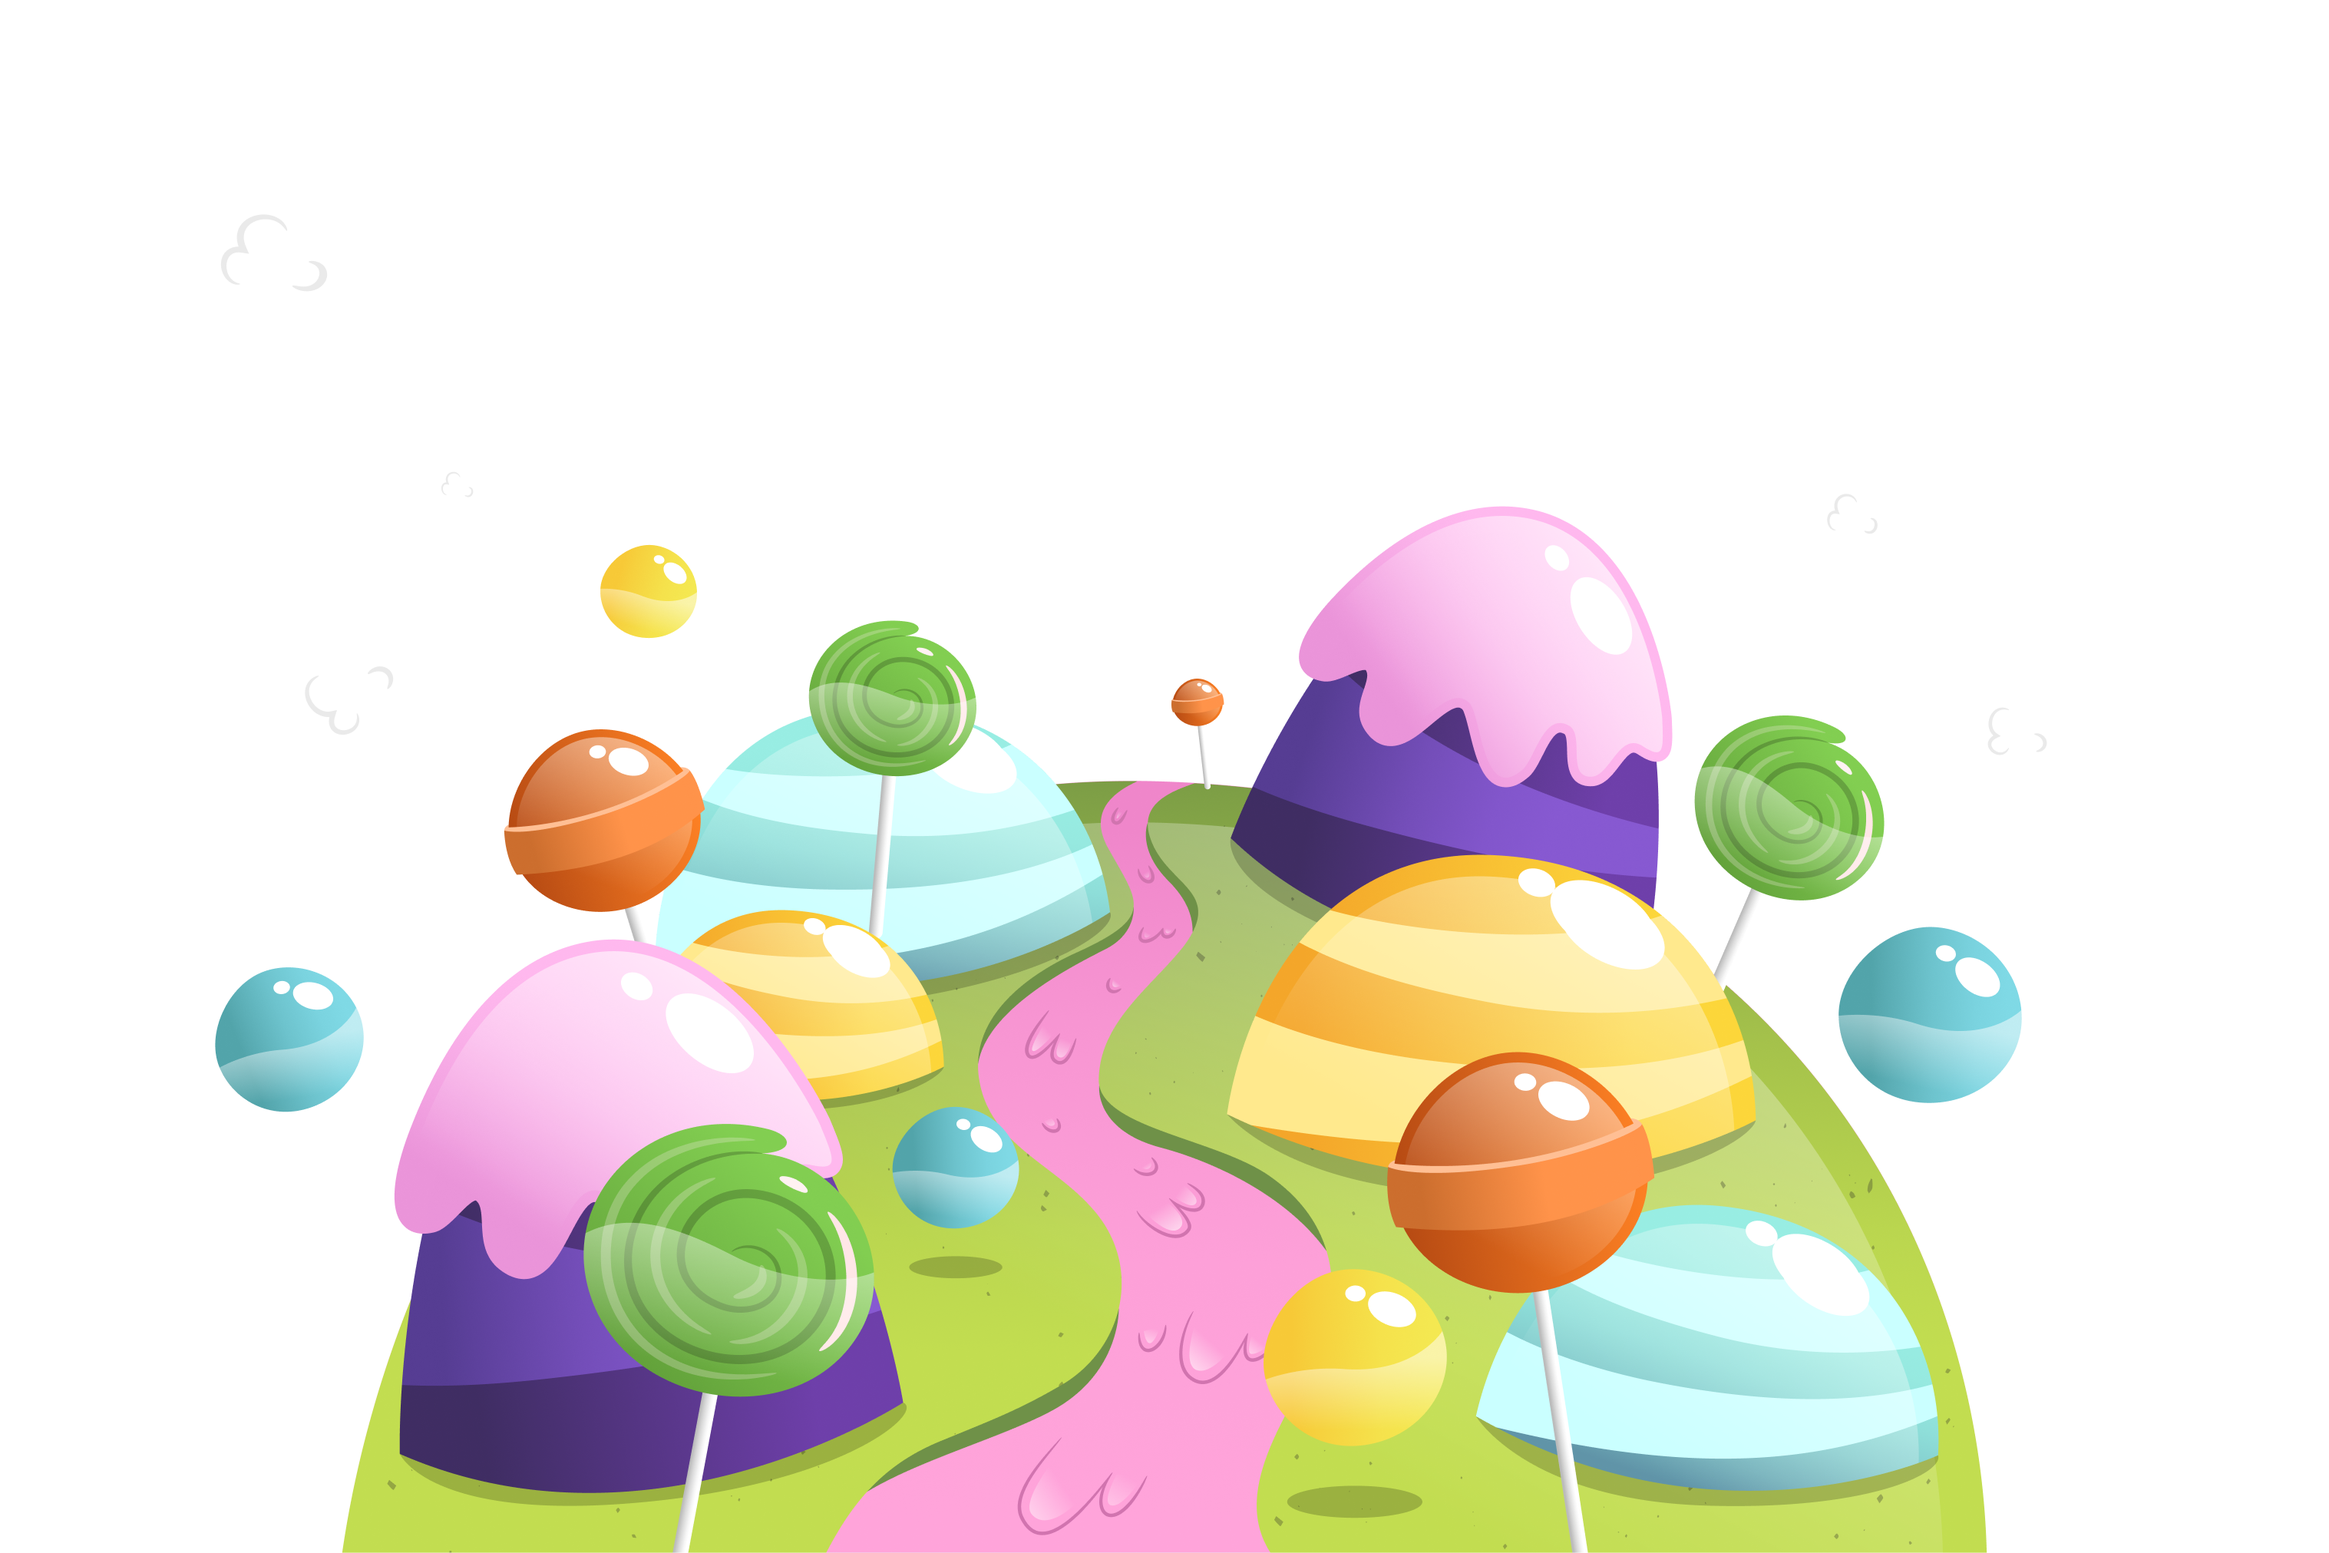
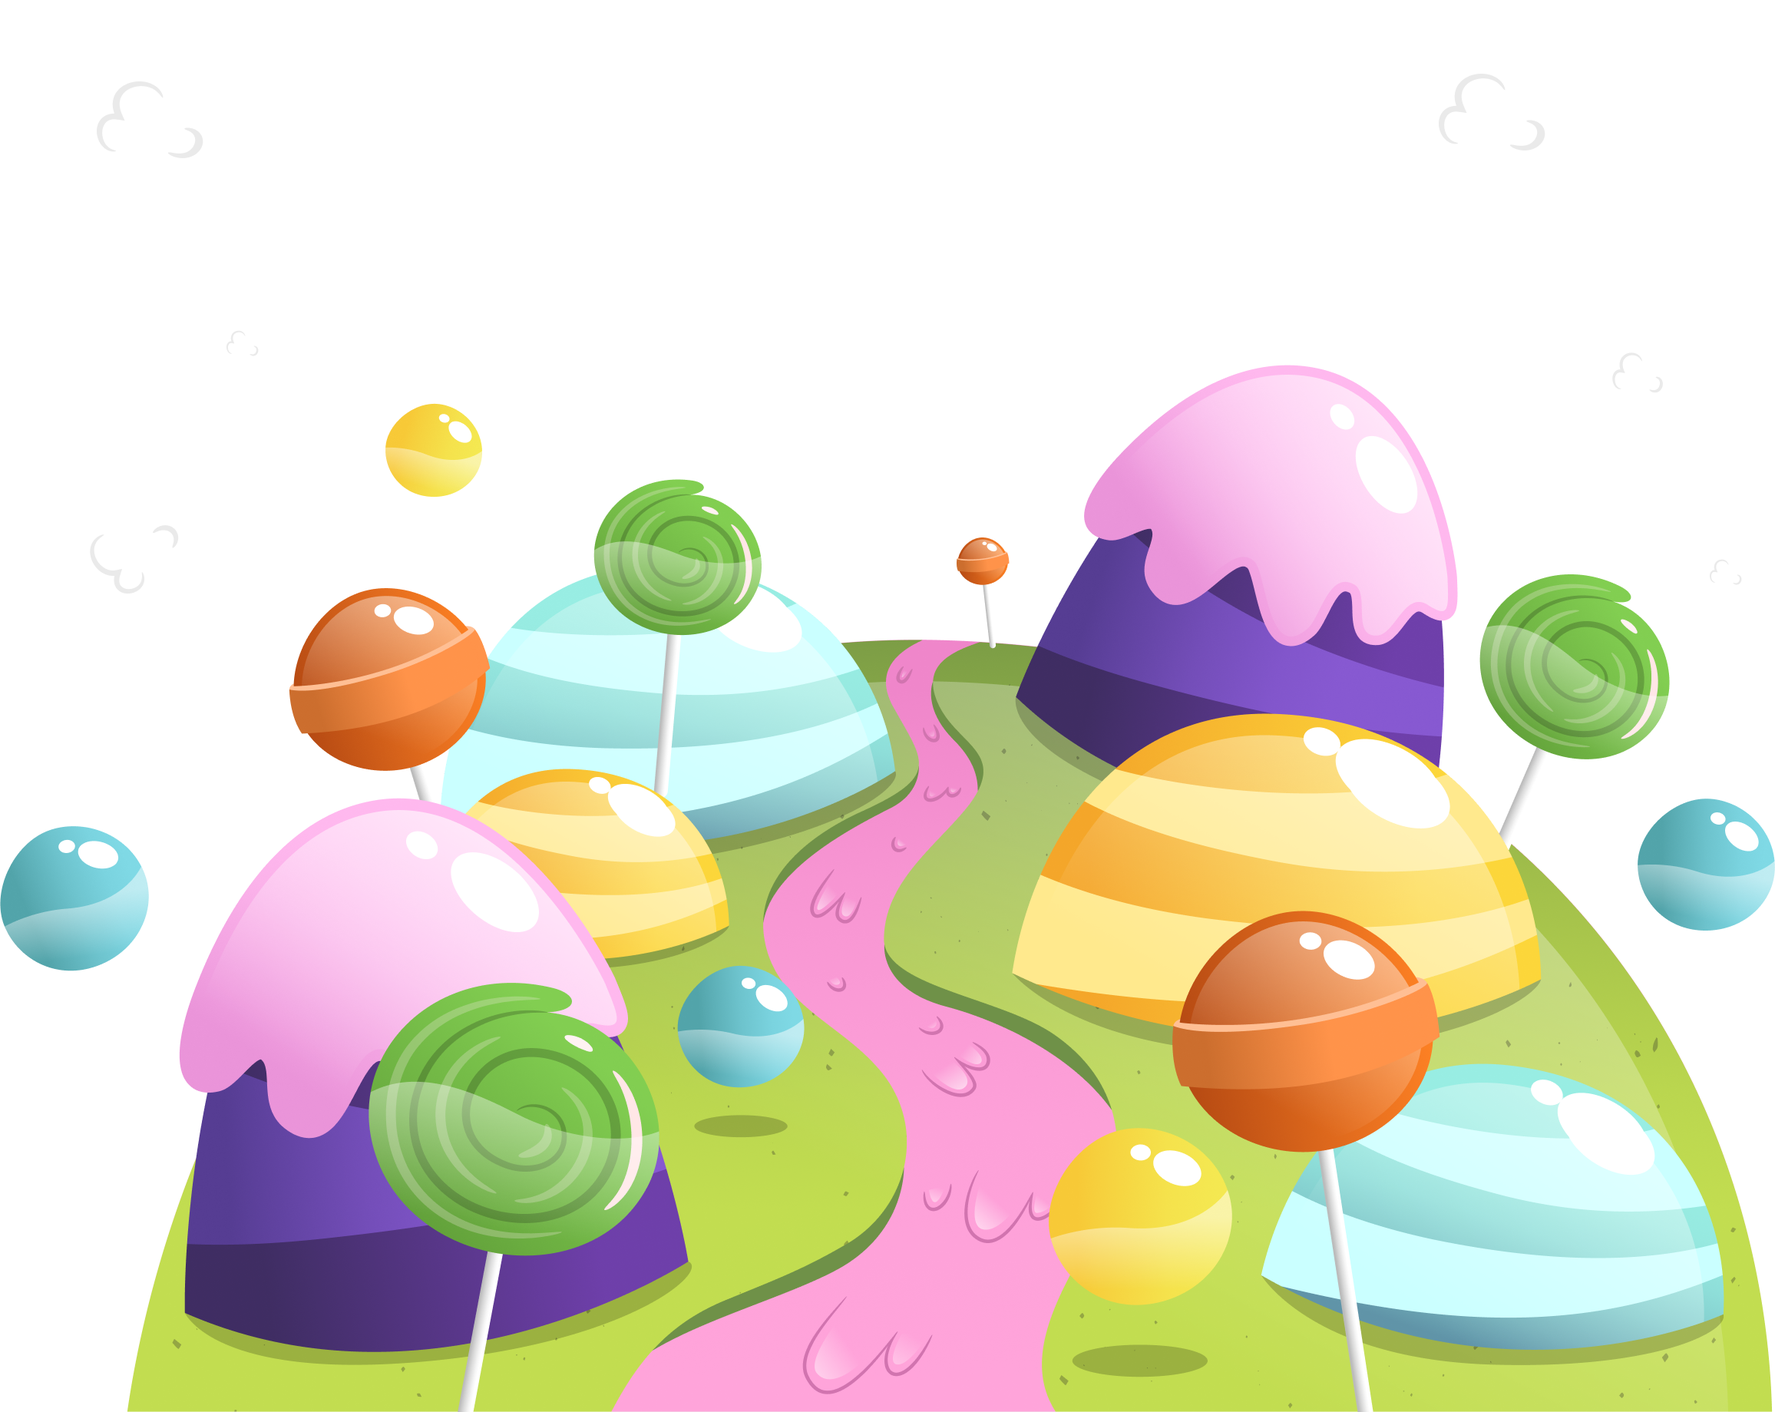
сcorrectives

diff --git a/src/scss/privacy-policy.scss b/src/scss/privacy-policy.scss
@@ -8,15 +8,43 @@
   );
 }
 
-.back {
-  color: $_header_text_color;
-  font-size: 20px;
-  font-style: normal;
+.terms-header {
+  padding: 32px 0 16px 0;
   font-weight: 500;
-  line-height: normal;
+  font-size: 14px;
   text-transform: capitalize;
+  display: flex;
+  align-items: center;
+  transition: color 250ms ease-in-out, fill 250ms ease-in-out;
+  @include media(desktop) {
+    font-size: 20px;
+    padding: 72px 0 28px;
+  }
 }
 
+.terms-header:focus,
+.terms-header:hover {
+  @include media(desktop) {
+    color: #f15d99;
+    fill: #f15d99;
+  }
+}
+
+.terms-svg {
+  margin-right: 16px;
+  transition: fill 250ms ease-in-out;
+  width: 20px;
+  height: 20px;
+  @include media(desktop) {
+    width: 24px;
+    height: 24px;
+  }
+}
+
+.terms-header:hover {
+  filter: invert(30%) sepia(50%) saturate(1000%) hue-rotate(-30deg)
+    brightness(130%) contrast(90%);
+}
 .privacy-policy {
   color: $_header_text_color;
   font-size: 32px;

diff --git a/src/scss/terms-of-us.scss b/src/scss/terms-of-us.scss
@@ -20,12 +20,13 @@
 }
 
 .terms-header {
-  padding: 32px 0 16px 0;
+  display: flex;
+  align-items: center;
+  gap: 8px;
   font-weight: 500;
   font-size: 14px;
   text-transform: capitalize;
-  display: flex;
-  align-items: center;
+  padding: 32px 0 16px 0;
   transition: color 250ms ease-in-out, fill 250ms ease-in-out;
   @include media(desktop) {
     font-size: 20px;
@@ -33,8 +34,7 @@
   }
 }
 
-.terms-header:focus,
-.terms-header:hover {
+.terms-header :hover {
   @include media(desktop) {
     color: #f15d99;
     fill: #f15d99;
@@ -42,18 +42,15 @@
 }
 
 .terms-svg {
-  margin-right: 16px;
+  margin-right: 0;
   transition: fill 250ms ease-in-out;
+  width: 20px;
+  height: 20px;
+  flex-shrink: 0;
   @include media(desktop) {
     width: 24px;
     height: 24px;
   }
-}
-
-
-.terms-header:hover {
-  filter: invert(35%) sepia(65%) saturate(2000%) hue-rotate(-30deg)
-    brightness(95%) contrast(90%);
 }
 
 .terms-caption {

diff --git a/src/scss/hero.scss b/src/scss/hero.scss
@@ -16,9 +16,9 @@
   max-width: 320px;
   height: 488px;
   background-image: url('/img/hero-img/mainVectorDesktop.png');
-  background-position: 47% -50%;
+  background-position: 56% -60%;
   background-repeat: no-repeat;
-  background-size: 240%;
+  background-size: 210%;
   background-color: #c2fffd;
 
   @include media(desktop) {
@@ -27,8 +27,8 @@
     height: 984px;
     padding: 120px 0 0;
     background-image: url('/img/hero-img/mainVectorDesktop.png');
-    background-size: 130%;
-    background-position: 38% 0%;
+    background-size: 104%;
+    background-position: 88% 0%;
   }
 }
 
@@ -112,10 +112,10 @@
 .hero-button {
   display: inline-block;
   margin-top: 8px;
-  transition: all 0.5s ease-in-out;
 
   @include media(desktop) {
     margin-top: 16px;
+    transition: all 5s ease-in-out;
   }
 }
 

diff --git a/src/terms-of-us.html b/src/terms-of-us.html
@@ -25,12 +25,15 @@
     <header>
       <div class="container">
         <div class="terms-header">
-          <a href="./index.html">
-            <svg class="terms-svg" width="16" height="17">
+          <a
+            href="./index.html"
+            style="display: flex; align-items: center; gap: 8px"
+          >
+            <svg class="terms-svg">
               <use href="./public/sprite.svg#icon-ArrowLeft"></use>
             </svg>
-            Back to main page</a
-          >
+            Back to main page
+          </a>
         </div>
       </div>
     </header>

diff --git a/src/partials/advantages.html b/src/partials/advantages.html
@@ -1,5 +1,5 @@
 <section class="advantages" id="advantages">
-  <div class="container">
+  <div class="container advantages-container">
     <h2 class="titleContainer">Advantages</h2>
     <div class="itemsContainer">
       <div class="advantage-item left-column">

diff --git a/src/scss/header.scss b/src/scss/header.scss
@@ -115,7 +115,7 @@
 }
 
 .link {
-  font-size: 24px;
+  font-size: 20px;
   text-transform: capitalize;
   font-weight: 600;
   color: $_header_text_color;

diff --git a/src/scss/advantages.scss b/src/scss/advantages.scss
@@ -3,7 +3,7 @@
   flex-direction: column;
   padding: 112px 0 0;
   @include media(desktop) {
-    padding: 120px 0 0;
+    padding: 136px 0 0;
   }
 }
 

diff --git a/src/scss/about-us.scss b/src/scss/about-us.scss
@@ -1,7 +1,7 @@
 .about-us-section {
   padding: 112px 0 0;
   @include media(desktop) {
-    padding: 120px 0 0;
+    padding: 136px 0 0;
   }
 }
 

diff --git a/src/scss/benefits.scss b/src/scss/benefits.scss
@@ -1,7 +1,7 @@
 .benefits-section {
   padding: 112px 0 0;
   @include media(desktop) {
-    padding: 140px 0 0;
+    padding: 136px 0 0;
   }
 }
 

diff --git a/src/scss/reviews.scss b/src/scss/reviews.scss
@@ -1,7 +1,7 @@
 .reviews-section {
   padding: 112px 0 0;
   @include media(desktop) {
-    padding: 120px 0 0;
+    padding: 136px 0 0;
   }
 }
 

diff --git a/src/scss/gallery.scss b/src/scss/gallery.scss
@@ -1,7 +1,7 @@
 .gallery-section {
   padding: 112px 0;
   @include media(desktop) {
-    padding: 120px 0;
+    padding: 136px 0;
   }
 }
 

diff --git a/src/scss/styles.scss b/src/scss/styles.scss
@@ -47,7 +47,7 @@ main {
 
   @include media(desktop) {
     width: 1200px;
-    padding: 0 24px;
+    padding: 0 72px;
   }
 }
 .body-box {
